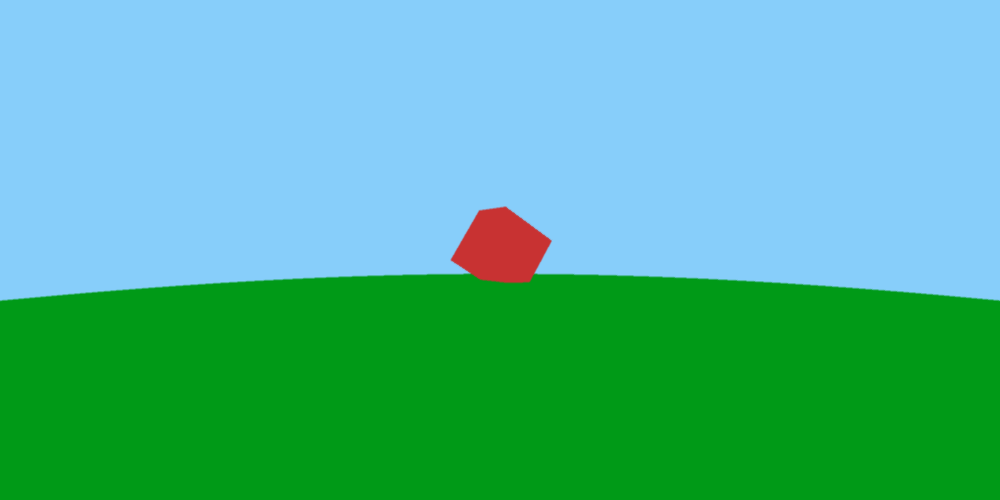
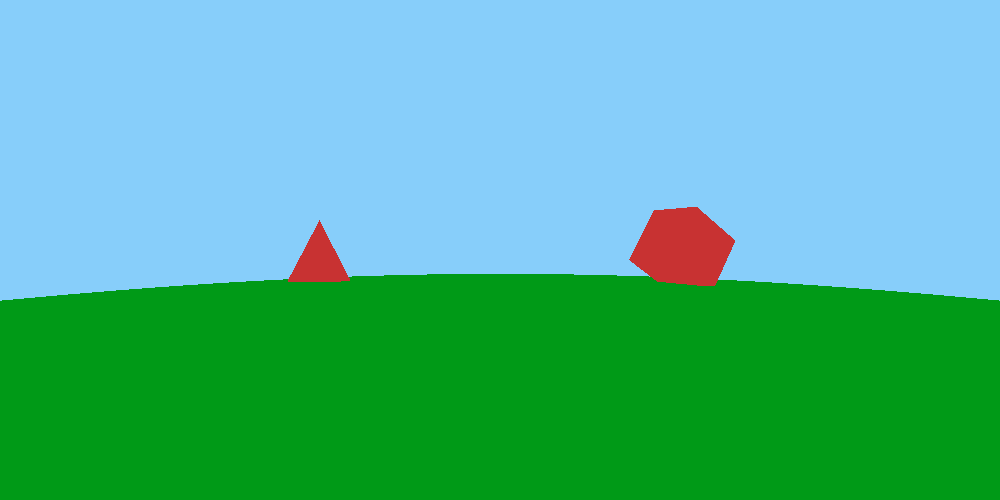
Simple mesh class added + main cleanup

Changed region(s): [[0.186, 0.42, 0.806, 0.57], [0.806, 0.57, 0.992, 0.6], [0.031, 0.57, 0.186, 0.6]]

diff --git a/IK_Raytracer/IK_Raytracer/IK_Raytracer.cpp b/IK_Raytracer/IK_Raytracer/IK_Raytracer.cpp
@@ -10,154 +10,103 @@
 #include "LightIntensity.h"
 #include "HitableList.h"
 #include "ObjParser.h"
-
-//vec3 color(const Ray& r, Hitable *world)
-//{
-//    hitRecord rec;
-//    if (world->hit(r, 0.0, FLT_MAX, rec) == true)
-//    {
-//        return 0.5 * vec3(rec.normal.x() + 1, rec.normal.y() + 1, rec.normal.z() + 1);
-//    }
-//    else 
-//    {
-//        vec3 unitDirection = unit_vector(r.direction());
-//        float t = 0.5 * (unitDirection.y() + 1.0);
-//        return (1.0 - t) * vec3(1.0, 1.0, 1.0) + t * vec3(0.5, 0.7, 1.0);
-//    }
-//}
+#include "Mesh.h"
 
 int main()
 {
+    // Screen resolution
     int scrWidth = 1000;
     int scrHeight = 500;
 
+    // Image
+    Image* perspective = new Image(scrWidth, scrHeight, 3);
+
+    // Camera and rays settings
+    float fov = 45.0f;
+    Camera* cam = new Camera(vec3(0, 0, 10), vec3(0, 0, -1000), vec3(0, -1, 0), fov, float(scrWidth)/float(scrHeight));
+
+    float pixelWidth = 2.0f / float(scrWidth);
+    float pixelHeight = 2.0f / float(scrHeight);
+
+    // Antyaliasing switch
     bool isAntyalia = true;
 
     std::cout << "Do you want to turn on antyaliasing [0 -- no, 1 -- yes]?: ";
     std::cin >> isAntyalia;
-    Image* orthogonal = new Image(scrWidth, scrHeight, 3);
-    Image* perspective = new Image(scrWidth, scrHeight, 3);
 
+    // Vector of hitable objects
+    std::vector<Hitable*> hitables;
+
+    // Parser object which is used to assign vertices and indices of object to those vertices and indices given below
     ObjParser parser;
     std::vector<vec3> vertices, indices;
+
+    // Assigning vertices and indices;
     parser.ParseFile("cubeTri.obj", vertices, indices);
-    float scale = 1 / 2.0f;
-  
-    // vector of hitable objects
-    std::vector<Hitable*> hitables;
-    
-    Hitable* list[4];
-    list[0] = new Triangle(vec3(-1.2, 0.0, -0.2), vec3(0.2, 0.0, -0.2), vec3(0.0, 0.5, -0.2), vec3(0, 0, 0));
-    list[1] = new Sphere(vec3(0.0, 0.0, -1), 0.25,vec3(255.0,161.0,0.0));
-    list[2] = new Sphere(vec3(0, -100.5, -1), 100, vec3(0, 154, 23));
-    list[3] = new Sphere(vec3(-0.25, 0, -0.5), 0.35, vec3(201.0, 118.0, 11.0));
 
-    // for loop which iterates through all vertices in parser
-    for (int i = 0; i < indices.size(); i++)
-    {
-        // Triangle made from indices 
-        Hitable* meshTriangle = new Triangle(vertices.at(indices.at(i).x()) * scale - vec3(0, 0, 0), 
-                                             vertices.at(indices.at(i).y()) * scale - vec3(0, 0, 0),
-                                             vertices.at(indices.at(i).z()) * scale - vec3(0, 0, 0),
-                                             vec3(200, 50, 50));
-      
+    // Mesh made from parsed obj file
+    Mesh* cube = new Mesh(vertices, indices, 0.5f, vec3(3, 0, 0)); // 1. vertices of object 2. indices of object 3. scale 4. position
+    cube->addToWorld(&hitables);
+    vertices.clear();
+    indices.clear();
 
-       /* std::cout << indices.at(i).x() << "/" << indices.at(i).y() << "/" << indices.at(i).z() 
-                  << ":[" << vertices.at(indices.at(i).x()) << " / " 
-                  << vertices.at(indices.at(i).y()) << " / "
-                  << vertices.at(indices.at(i).z()) << "] " << std::endl;*/
-        
-        // Add triangle to hitables
-        hitables.push_back(meshTriangle);
-    }
+    // Second object creation:
+    parser.ParseFile("coneBlend2.obj", vertices, indices);
 
-    /*for (int i = 0; i < 4; i++)
-        hitables.push_back(list[i]);*/
-    hitables.push_back(list[2]);
+    Mesh* cone = new Mesh(vertices, indices, 0.5f, vec3(-3, 0, 0));
+    cone->addToWorld(&hitables);
+    vertices.clear();
+    indices.clear();
+ 
+    // green sphere which simulates ground
+    Hitable* ground = new Sphere(vec3(0, -100.5, -1), 100, vec3(0, 154, 23));
+    hitables.push_back(ground);
     std::cout << hitables.size() << std::endl;
     
     // pass hitables to world
     Hitable* world = new HitableList(hitables);
-    float fov = 45.0f;
-    Camera* cam = new Camera(vec3(0, 0, 10), vec3(0, 0, -1000), vec3(0, -1, 0), fov, float(scrWidth)/float(scrHeight));
 
-    bool ortho = true;
-
-    float pixelWidth = 2.0f / float(scrWidth);
-    float pixelHeight = 2.0f / float(scrHeight); 
-
-    for (int imageNumber = 0; imageNumber < 2; imageNumber++)
+    for (int i = 0; i < scrWidth; i++)
     {
-        if (ortho == true)
-            std::cout << "Orthogonal image is rendering now..." << std::endl;
-        else
-            std::cout << "Perspective image is rendering now..." << std::endl;
-        for (int i = 0; i < scrWidth; i++)
+        for (int j = 0; j < scrHeight; j++)
         {
-            for (int j = 0; j < scrHeight; j++)
+            Ray r;
+            LightIntensity finalColor;
+
+            float u = float(i) / float(scrWidth);
+            float v = float(j) / float(scrHeight);
+
+            float uMin = u - (pixelWidth / 2);
+            float uMax = u + (pixelWidth / 2);
+
+            float vMin = v - (pixelHeight / 2);
+            float vMax = v + (pixelHeight / 2);
+
+            if (isAntyalia)
+                finalColor = finalColor.Antialiasing(world, cam, fov, fov / 45.0f, false,
+                    uMin, uMax, vMin, vMax, i, j, 0.50f,
+                    std::vector<LightIntensity*>{nullptr, nullptr, nullptr, nullptr, nullptr});
+
+
+            float pixelCenterX = u + pixelWidth;
+            float pixelCenterY = v + pixelHeight;
+
+
+            if (isAntyalia == false)
             {
-                Ray r;
-                LightIntensity finalColor;
+                r = cam->getRay(u, v, fov, fov / 45, false);
+                LightIntensity newColor = finalColor.GetColorFromRay(r, world);
 
-                float u = float(i) / float(scrWidth);
-                float v = float(j) / float(scrHeight);
-
-                float uMin = u - (pixelWidth / 2);
-                float uMax = u + (pixelWidth / 2);
-
-                float vMin = v - (pixelHeight / 2); 
-                float vMax = v + (pixelHeight / 2);
-
-                /*if (uMin < 0) uMin = 0;
-                if (vMin < 0) vMin = 0;
-                if (uMax > 1) uMax = 1;
-                if (vMax > 1) vMax = 1;*/
-
-                if (isAntyalia)
-                finalColor = finalColor.Antialiasing(world, cam, fov, fov / 45.0f, ortho, 
-                                                                    uMin, uMax, vMin, vMax, i, j, 0.50f, 
-                                                                    std::vector<LightIntensity*>{nullptr, nullptr, nullptr, nullptr, nullptr});
-                 
-                
-                float pixelCenterX = u + pixelWidth;
-                float pixelCenterY = v + pixelHeight;
-
-                if (ortho == true)
-                {
-                    if (isAntyalia == false)
-                    {
-                        r = cam->getRay(u, v, fov, fov / 45, ortho);
-                        LightIntensity newColor = newColor.GetColorFromRay(r, world);
-
-                        orthogonal->SetPixel(i, j, newColor);
-                    }
-                    else
-                        orthogonal->SetPixel(i, j, finalColor);
-                }
-
-                else
-                {
-                    if (isAntyalia == false)
-                    {
-                        r = cam->getRay(u, v, fov, fov / 45, ortho);
-                        LightIntensity newColor = finalColor.GetColorFromRay(r, world);
-
-                        perspective->SetPixel(i, j, newColor);
-                    }
-
-                    else
-                        perspective->SetPixel(i, j, finalColor);
-                }
+                perspective->SetPixel(i, j, newColor);
             }
 
-            std::cout << "Please wait, " << (i * 100) / scrWidth << "% of image has been calculated." << std::endl;
+            else
+                perspective->SetPixel(i, j, finalColor);
         }
-        orthogonal->Write("ortho.png");
-        if(ortho == true)
-            std::cout << "Orthogonal image created!" << std::endl;
 
-        ortho = false;
+        std::cout << "Please wait, " << (i * 100) / scrWidth << "% of image has been calculated." << std::endl;
     }
+    
 
     perspective->Write("perspective.png");
     std::cout << "Pespective image created!" << std::endl;

diff --git a/IK_Raytracer/IK_Raytracer/Mesh.cpp b/IK_Raytracer/IK_Raytracer/Mesh.cpp
@@ -1,0 +1,32 @@
+#include "Mesh.h"
+
+Mesh::Mesh(std::vector<vec3> meshVert, std::vector<vec3> meshIndi, float scl, vec3 pos)
+{
+	vertices = meshVert;
+	indices = meshIndi;
+	position = pos;
+
+	scale = scl;
+
+	for (int i = 0; i < indices.size(); i++)
+	{
+		Hitable* meshTriangle = new Triangle(vertices.at(indices.at(i).x()) * scale - position,
+							vertices.at(indices.at(i).y()) * scale - position,
+							vertices.at(indices.at(i).z()) * scale - position, 
+							vec3(200, 50, 50));
+		mesh.push_back(meshTriangle);
+	}
+}
+
+void Mesh::setScale(float scl)
+{
+	scale = scl;
+}
+
+void Mesh::addToWorld(std::vector<Hitable*> *world)
+{
+	for (int i = 0; i < mesh.size(); i++)
+	{
+		world->push_back(mesh.at(i));
+	}
+}

diff --git a/IK_Raytracer/IK_Raytracer/Mesh.h b/IK_Raytracer/IK_Raytracer/Mesh.h
@@ -1,0 +1,20 @@
+#pragma once
+#include <vector>
+#include "Triangle.h"
+class Mesh
+{
+public:
+	std::vector<vec3> vertices;
+	std::vector<vec3> indices;
+	std::vector<Hitable*> mesh;
+
+	vec3 position = vec3(0.0, 0.0, 0.0);
+	float scale;
+
+	Mesh(std::vector<vec3> meshVert, std::vector<vec3> meshIndi, float scl, vec3 pos);
+	~Mesh();
+
+	void setScale(float scl);
+	void addToWorld(std::vector<Hitable*> *world);
+};
+
